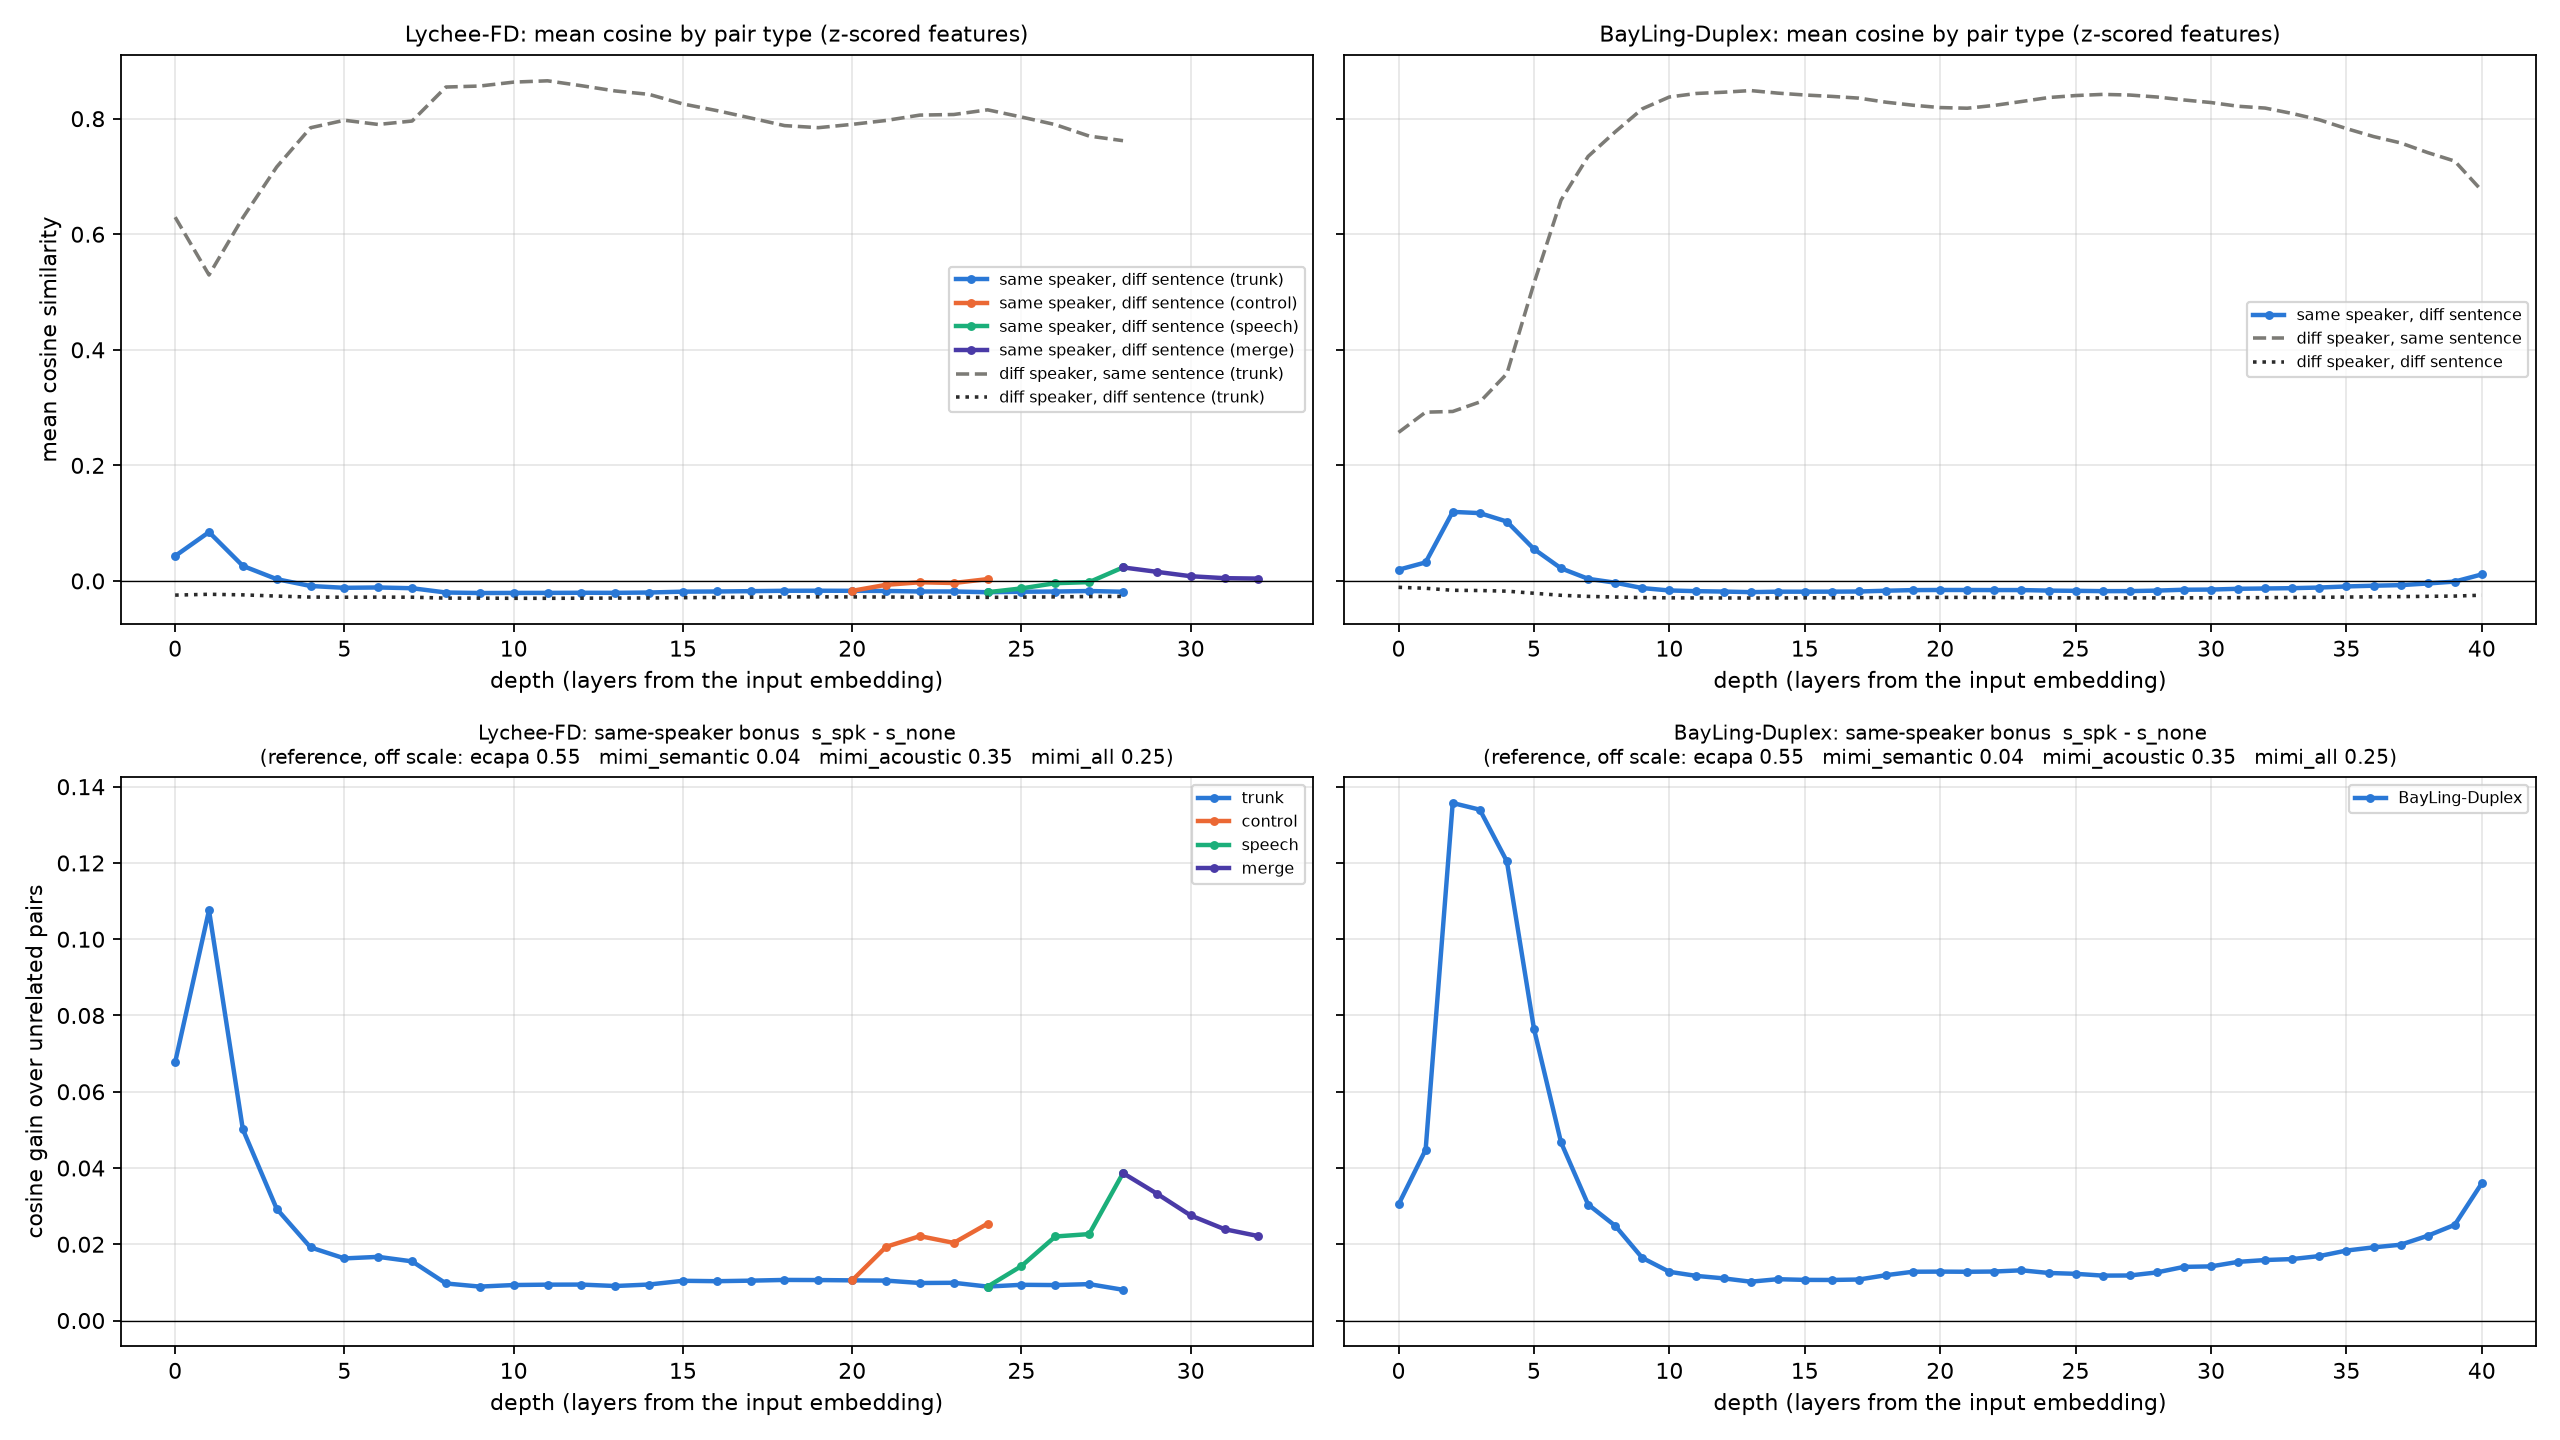
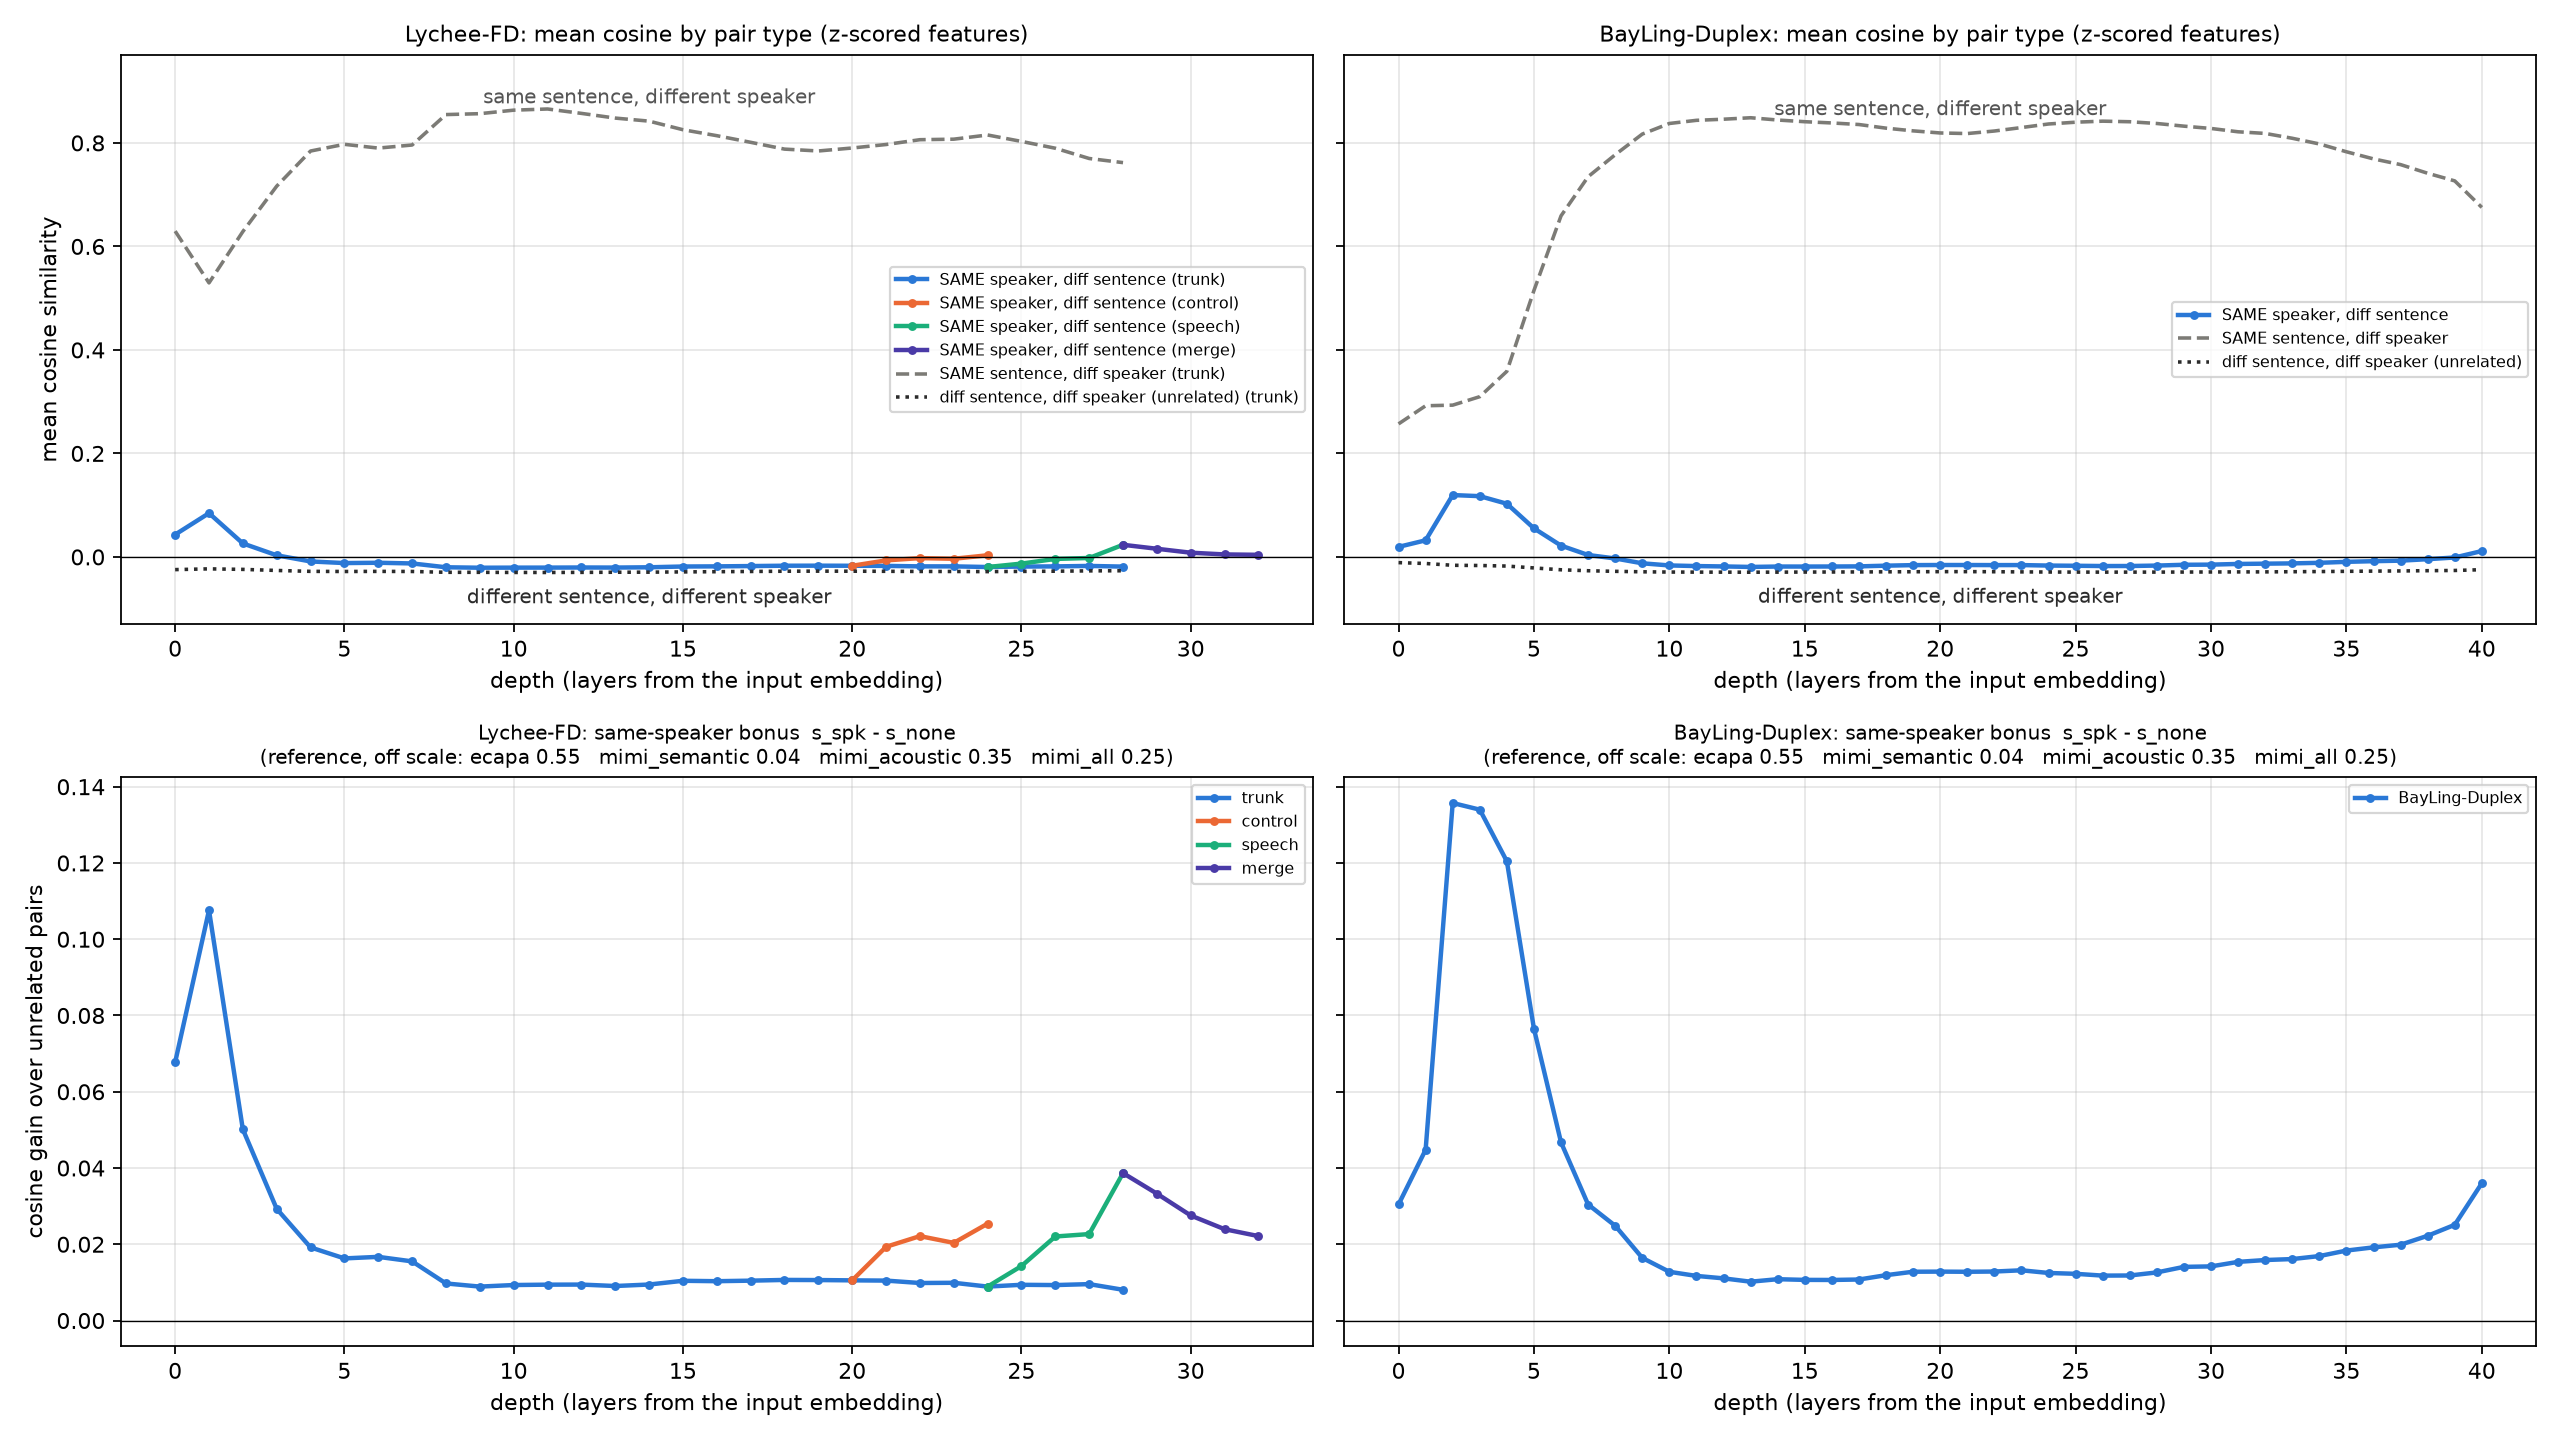
Cosine figure: label the reference lines on the plot

diff --git a/lyprobe/plot_results.py b/lyprobe/plot_results.py
@@ -145,13 +145,21 @@ def plot_cosine(plt, results, path):
             color = TRACK_COLORS.get(t, OTHER_MODEL) if tree else TRACK_COLORS["trunk"]
             lab = f" ({t})" if tree else ""
             ax.plot(xs, [p["s_spk"] for p in ps], marker="o", ms=3, lw=2, color=color,
-                    label="same speaker, diff sentence" + lab)
+                    label="SAME speaker, diff sentence" + lab)
             bx.plot(xs, [p["s_spk"] - p["s_none"] for p in ps], marker="o", ms=3, lw=2,
                     color=color, label=t if tree else res["model"])
         ax.plot(tx, [p["s_txt"] for p in trunk], ls="--", lw=1.6, color="#7c7b76",
-                label="diff speaker, same sentence" + (" (trunk)" if tree else ""))
+                label="SAME sentence, diff speaker" + (" (trunk)" if tree else ""))
         ax.plot(tx, [p["s_none"] for p in trunk], ls=":", lw=1.6, color="#2b2b2b",
-                label="diff speaker, diff sentence" + (" (trunk)" if tree else ""))
+                label="diff sentence, diff speaker (unrelated)" + (" (trunk)" if tree else ""))
+        # label the two reference lines on the plot itself, not only in the legend
+        mid = len(trunk) // 2
+        ax.annotate("same sentence, different speaker", (tx[mid], trunk[mid]["s_txt"]),
+                    xytext=(0, 8), textcoords="offset points", ha="center", fontsize=9,
+                    color="#555")
+        ax.annotate("different sentence, different speaker", (tx[mid], trunk[mid]["s_none"]),
+                    xytext=(0, -14), textcoords="offset points", ha="center", fontsize=9,
+                    color="#2b2b2b")
         ax.set_title(f"{res['model']}: mean cosine by pair type (z-scored features)", fontsize=10)
         ref = "   ".join(f"{k} {v['s_spk'] - v['s_none']:.2f}" for k, v in base.items())
         bx.set_title(f"{res['model']}: same-speaker bonus  s_spk - s_none\n"
@@ -160,6 +168,7 @@ def plot_cosine(plt, results, path):
             a.axhline(0, color="k", lw=.6)
             a.set_xlabel("depth (layers from the input embedding)")
             a.grid(alpha=.3)
+        ax.set_ylim(-0.13, 0.97)
         ax.legend(fontsize=7, loc="center right")
         bx.legend(fontsize=7, loc="upper right")
     axes[0][0].set_ylabel("mean cosine similarity")
